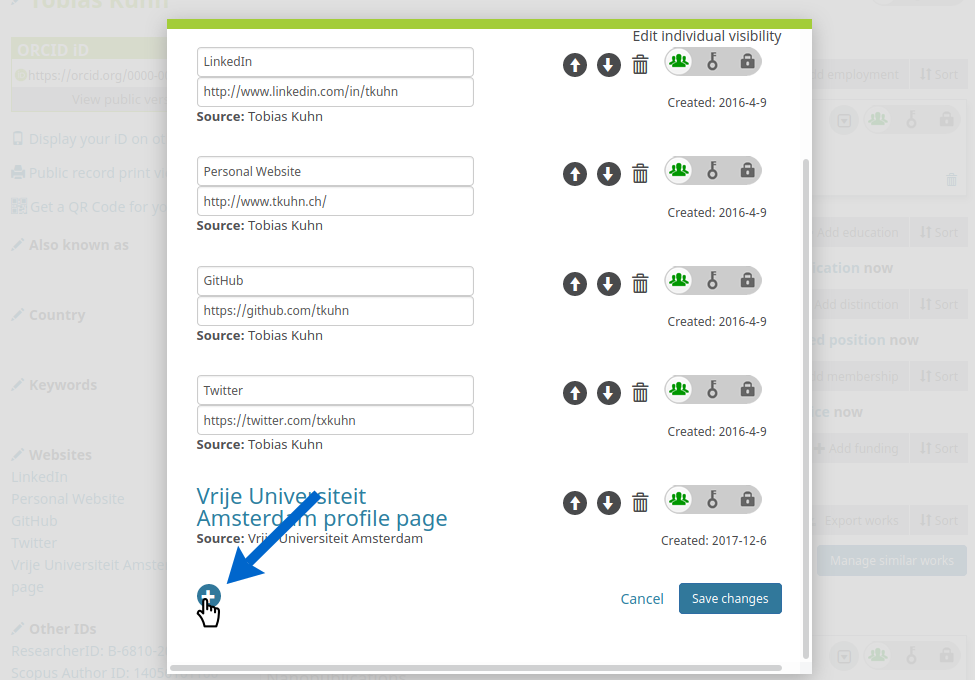
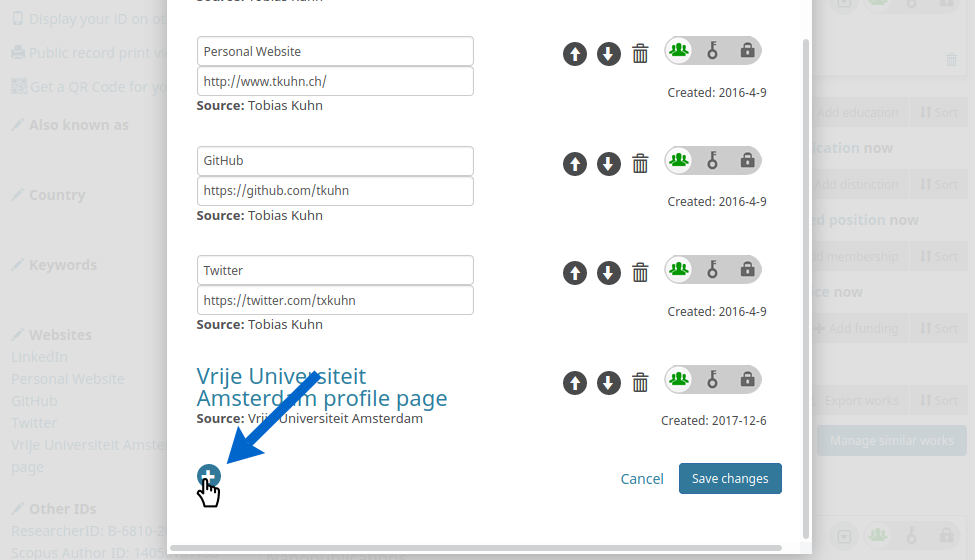
Work on ORCID linking page

diff --git a/src/main/java/org/petapico/nanobench/OrcidLinkingPage.html b/src/main/java/org/petapico/nanobench/OrcidLinkingPage.html
@@ -17,24 +17,36 @@
 <h2>Linking your ORCID Account</h2>
 
 <p class="widthlimit">
-Once you have completed <a href="/profile">your profile</a>, you can additionally link your introduction nanopublication from your public ORCID profile.
-Like this, you can prove that you are indeed the one who has control of the given ORCID account.
+Once you have completed <a href="/profile">your profile</a>, you can additionally link your introduction nanopublication from your public ORCID profile,
+to prove that you are the one who has control of the given ORCID account.
 </p>
 
 <p class="widthlimit">
-As a first step, login to ORCID and go to your <a href="https://orcid.org/my-orcid">account settings</a>.
-There, click on the small pencil icon next to "Websites" on the left panel:
+As a first step, login to ORCID and go to your <a href="https://orcid.org/my-orcid" target="_blank">ORCID record</a>.
+There, click on the small pencil icon next to "Websites" on the left side bar:
 </p>
 
-<img src="images/orcid-linking-1.png" alt="step 1" height="580" width="975" class="figure">
+<img src="images/orcid-linking-1.png" alt="step 1" height="560" width="975" class="figure">
 
 <p class="widthlimit">
-
+Click then on the plus icon at the bottom of the internal window that comes up:
 </p>
 
-<img src="images/orcid-linking-2.png" alt="step 1" height="680" width="975" class="figure">
- 
-<img src="images/orcid-linking-3.png" alt="step 1" height="680" width="975" class="figure">
+<img src="images/orcid-linking-2.png" alt="step 2" height="560" width="975" class="figure">
+
+<p class="widthlimit">
+Two new text fields show up. In the first one, labeled "Description", put <code>intro-nanopub</code>.
+In the second one, labeled "URL", paste the URL of your introduction nanopublication:
+</p>
+
+<img src="images/orcid-linking-3.png" alt="step 3" height="560" width="975" class="figure">
+
+<p class="widthlimit">
+Then press "Save changes" and you are all set.
+As a last check, you only need to ensure that the visibility of your profile is set to "Everyone" in <a href="https://orcid.org/account" target="_blank">your ORCID account settings</a>:
+</p>
+
+<img src="images/orcid-linking-4.png" alt="step 4" height="560" width="975" class="figure">
 
 </div>
 

diff --git a/src/main/webapp/style.css b/src/main/webapp/style.css
@@ -264,8 +264,9 @@ a.meta:hover, a.meta:active {
   border-style: solid;
   border-width: 1px;
   border-color: #888;
+  margin: 10px;
 }
 
 .widthlimit {
-  width: 980px;
+  width: 1000px;
 }
